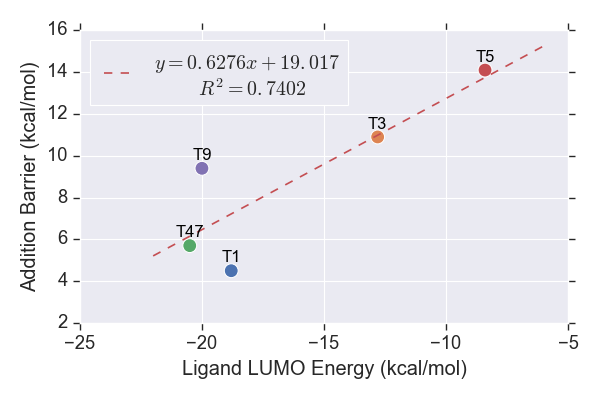
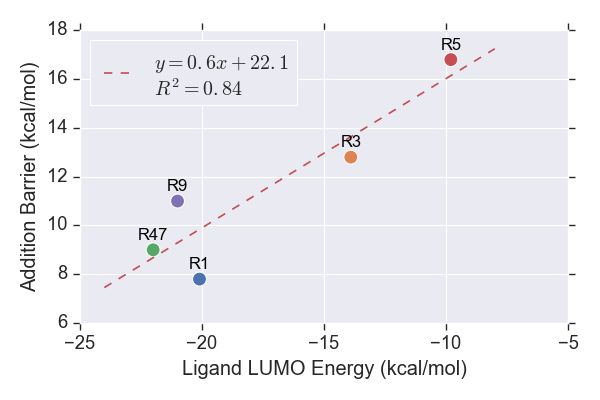
Updated to Combination I values, except charges

diff --git a/QM/visualG/plot_fig.py b/QM/visualG/plot_fig.py
@@ -23,12 +23,12 @@ SIX_PLOTS_WIDTH, SIX_PLOTS_HEIGHT = 10, 8
 def lin_reg(m, c, r2, xlimit, leg_loc, font_size="x-small"):
     x = np.linspace(xlimit[0], xlimit[1], 2)
     y = m * x + c
-    plt.plot(x, y, '--r', label="$y = {0}x + {1}$\n\t$R^2 = {2}$".format(m, c, r2))
+    plt.plot(x, y, '--r', label="$y = {0:.1f}x + {1:.1f}$\n$R^2 = {2:.2f}$".format(m, c, r2))
     plt.legend(loc=leg_loc, fontsize=font_size)
 
 
 if __name__ == "__main__":
-    csv_file = "{0}/QM/Conformational_Analysis/Most_stable/Properties_Correlation.csv".format(DATA_PATH)
+    csv_file = "{0}/QM/Conformational_Analysis/Most_stable_conformers/CombinationI_Properties_Correlation.csv".format(DATA_PATH)
     df = pd.read_csv(csv_file, index_col=0)
     print(df)
 
@@ -40,7 +40,7 @@ if __name__ == "__main__":
     for line in range(1, df.shape[0] + 1):
         ax.text(df["Ligand LUMO Energy (kcal/mol)"][line], df["Addition Barrier (kcal/mol)"][line] + 0.4,
                 df["Ligand"][line], horizontalalignment='center', size='small', color='black')
-    m, c, r2 = 0.6276, 19.017, 0.7402
+    m, c, r2 = 0.6121, 22.143, 0.8354
     lin_reg(m, c, r2, plt.xlim(), "upper left", font_size="medium")
     plt.ylim(None, None); plt.xlim(None, None)
     plt.tight_layout()
@@ -119,33 +119,33 @@ if __name__ == "__main__":
     ax1 = fig.add_subplot(2, 2, 1)
     p1 = sns.scatterplot(x="Thiolate Distortion Energy (kcal/mol)", y="Addition Barrier (kcal/mol)", data=df, hue="Ligand", legend=False, s=100)
     for line in range(1, df.shape[0] + 1):
-        ax1.text(df["Thiolate Distortion Energy (kcal/mol)"][line]-0.03, df["Addition Barrier (kcal/mol)"][line],
+        ax1.text(df["Thiolate Distortion Energy (kcal/mol)"][line]-0.02, df["Addition Barrier (kcal/mol)"][line],
                 df["Ligand"][line], horizontalalignment='right', size='small', color='black')
-    m, c, r2 = 18.279, 4.4489, 0.711
+    m, c, r2 = 17.241, 7.6018, 0.798
     lin_reg(m, c, r2, plt.xlim(), "upper left")
 
     ax2 = fig.add_subplot(2, 2, 2)
     p2 = sns.scatterplot(x="Ligand Distortion Energy (kcal/mol)", y="Addition Barrier (kcal/mol)", data=df, hue="Ligand", legend=False, s=100)
     for line in range(1, df.shape[0] + 1):
-        ax2.text(df["Ligand Distortion Energy (kcal/mol)"][line]+5, df["Addition Barrier (kcal/mol)"][line],
+        ax2.text(df["Ligand Distortion Energy (kcal/mol)"][line]-1.0, df["Addition Barrier (kcal/mol)"][line]+0.7,
                 df["Ligand"][line], horizontalalignment='left', size='small', color='black')
-    m, c, r2 = 0.0194, 8.4567, 0.0323
+    m, c, r2 = 0.8082, 5.3355, 0.9760
     lin_reg(m, c, r2, plt.xlim(), "best")
 
     ax3 = fig.add_subplot(2, 2, 3)
     p3 = sns.scatterplot(x="Activation Energy (kcal/mol)", y="Addition Barrier (kcal/mol)", data=df, hue="Ligand", legend=False, s=100)
     for line in range(1, df.shape[0] + 1):
-        ax3.text(df["Activation Energy (kcal/mol)"][line]-0.5, df["Addition Barrier (kcal/mol)"][line],
+        ax3.text(df["Activation Energy (kcal/mol)"][line]-0.3, df["Addition Barrier (kcal/mol)"][line],
                 df["Ligand"][line], horizontalalignment='right', size='small', color='black')
-    m, c, r2 = 0.9708, 5.5026, 0.9026
+    m, c, r2 = 0.9013, 10.439, 0.8943
     lin_reg(m, c, r2, plt.xlim(), "upper left")
 
     ax4 = fig.add_subplot(2, 2, 4)
     p4 = sns.scatterplot(x="Interaction Energy (kcal/mol)", y="Addition Barrier (kcal/mol)", data=df, hue="Ligand", legend=False, s=100)
     for line in range(1, df.shape[0] + 1):
-        ax4.text(df["Interaction Energy (kcal/mol)"][line]+5, df["Addition Barrier (kcal/mol)"][line],
+        ax4.text(df["Interaction Energy (kcal/mol)"][line]+0.18, df["Addition Barrier (kcal/mol)"][line],
                 df["Ligand"][line], horizontalalignment='left', size='small', color='black')
-    m, c, r2 = 0.0088, 8.7397, 0.0068
+    m, c, r2 = -1.6397, 0.1818, 0.428
     lin_reg(m, c, r2, plt.xlim(), "lower left")
 
     # plt.legend(p4, loc="center right", borderaxespad=0.1, title="Ligands")

diff --git a/QM/run_gaussian/gaussian.py b/QM/run_gaussian/gaussian.py
@@ -12,7 +12,7 @@ from os.path import isdir
 from QM.run_gaussian.settings import theory_lvl_list, keyword_dict, DATA_PATH
 
 NCPUS, SOFTWARE, VERSION, CLUSTER = int(8), 'g16', 'b01', 'Raijin'  # Unlikely to change
-WALLTIME, VMEM, JOBFS = '12:00:00', int(70000), int(100000)  # Common variables
+WALLTIME, VMEM, JOBFS = '12:00:00', int(8000), int(2400)  # Common variables
 MEM, CHARGE, SPIN = VMEM, int(0), int(1)
 METHOD, BASIS_SET, CALC_TYPE, FREQ, SCRF = 'M062X', '6-31+G(d)', ' opt', ' freq=noraman', ' scrf=(cpcm,solvent=water)'
 
@@ -23,6 +23,7 @@ def gen_from_dir(input_dir, run_calc_type, cluster=CLUSTER, combination=None, so
     for i, group in enumerate(groups):  # Potentially R, TSS, P
         group_dir = '{0}/{1}'.format(input_dir, group)  # Absolute path to the directories
         conformers = [g for g in os.listdir(group_dir) if isdir('{0}/{1}'.format(group_dir, g))]  # and 'TR' not in g
+        # print(conformers)
         for j, title in enumerate(conformers):
             conformer_dir = '{0}/{1}'.format(group_dir, title)
             edit_charge = True if run_calc_type == 'FBRGO' or run_calc_type == 'TSGOVF' or 'TS' in title or 'TI' in title or '-' in title else False
@@ -43,12 +44,15 @@ def gauss_inp_geom_opt(title, dirc, mem=MEM, ncpus=NCPUS, combination='{0}/{1}'.
             line_list = g.readlines()
             has_energy_name = 'Energy' in line_list[1] or 'TI' in line_list[1] or 'Name' in line_list[1]  # Potential bug-breeding spots
             has_path = ':' in line_list[1]
+            has_blank = '\n' in line_list[1]
             for i, line in enumerate(line_list):
                 if has_energy_name and i > 1:
                     f.write('{0}'.format(line))
                 elif has_path and i > 1:
                     f.write('\n{0}'.format(line)) if i == 2 else f.write('{0}'.format(line))
-                elif not(has_energy_name) and not(has_path) and i > 0:
+                elif has_blank and i > 1:
+                    f.write('{0}'.format(line))
+                elif not(has_energy_name) and not(has_path) and not(has_blank) and i > 0:
                     f.write('{0}'.format(line))
                 else:
                     pass
@@ -145,15 +149,16 @@ if __name__ == "__main__":
     else:
         input_dir = '{0}/QM_Calculations/Benchmarking'.format(DATA_PATH)
     job_list = ['geom_opt', 'spe', 'SCS']
-    job = job_list[1]
+    job = job_list[0]
     if job == 'geom_opt':
-        input_dir = '{0}/QM/Conformational_Search/Intermediates'.format(DATA_PATH)
+        input_dir = '{0}/Cross_Conjugation/Conformational_Search/mystery/Chloroform/Second_Products'.format(DATA_PATH)
         combination = '{0}/{1}'.format(METHOD, BASIS_SET)
-        gen_from_dir(input_dir, run_calc_type='GOVF', cluster='RCC', combination=combination, solvent='water')
+        print("Combination:", combination)
+        gen_from_dir(input_dir, run_calc_type='GOVF', cluster='RCC', combination=combination, solvent='chloroform')
     elif job == 'spe':
-        input_dir = '{0}/QM/Benchmarking/Extra_combinations'.format(DATA_PATH)
+        input_dir = '{0}/QM/Benchmarking'.format(DATA_PATH)
         for i, combination in enumerate(theory_lvl_list):
-            theory_dir = '{0}/Combination{1}/Water'.format(input_dir, i + 8)
+            theory_dir = '{0}/Combination{1}/Water'.format(input_dir, i + 1)
             # theory_dir = '{0}/alpha_santonin/Water'.format(input_dir)
             gen_from_dir(theory_dir, run_calc_type='SPEiS', cluster='RCC', combination=combination, solvent='water')
     elif job == 'SCS':

diff --git a/QM/run_gaussian/settings.py b/QM/run_gaussian/settings.py
@@ -9,7 +9,7 @@ Though recognition of my effort is appreciated! XD
 DATA_PATH = 'C:/Users/s4425412/Documents/Honours/Data'
 keyword_dict = {
     'SPEXGO': {'type': '', 'time': '48:00:00', 'vmem': int(10000), 'ncpus': int(16)},  # single-point energy calculation without geometry optimization
-    'GOVF': {'type': ' opt int(grid=ultrafine) scf=tight', 'freq': ' freq=noraman', 'mem': int(4000), 'jobfs': int(2400), 'time': '10:00:00'},  # geometry optimization with vibrational frequency calculation
+    'GOVF': {'type': ' opt int(grid=ultrafine) scf=tight', 'freq': ' freq=noraman', 'mem': int(8000), 'jobfs': int(2400), 'time': '10:00:00'},  # geometry optimization with vibrational frequency calculation
     'TSGOVF': {'type': ' opt=(ts,calcfc,noeigentest,maxcyc=200) int(grid=ultrafine) scf=tight', 'freq': ' freq=noraman', 'mem': int(4000), 'jobfs': int(4000), 'time': '10:00:00'},  # transition state GOVF
     'IRC': {'type': ' irc=(maxpoints=6,stepsize=10,calcfc,maxcyc=200)', 'time': '10:00:00'},  # intrinsic reaction coordinate calculation
     'SPEiS': {'type': ' int(grid=ultrafine) scf=tight', 'freq': '', 'time': '07:00:00', 'mem': int(70000), 'jobfs': int(100000)},  # single-point energy calculation in solvent
@@ -17,7 +17,7 @@ keyword_dict = {
     'FBRGO': {'type': ' opt=modredundant int(grid=ultrafine) scf=tight', 'freq': ' freq=noraman', 'edit_charge': int(-1), 'time': '18:00:00', 'mem': int(4000), 'jobfs': int(4000)},  # freeze a bond, optimize the rest
     'SBGO': {'type': ' opt=(z-matrix)'},  # stretch a bond, optimize for each point
     }
-# theory_lvl_list = ['B2PLYPD/6-311G(2d,p)', 'M062X/6-311G(2d,p)', 'MP2/6-311G(2d,p)',
-#                   'wB97XD/6-311G(2d,p)', 'wB97XD/AUG-cc-pVTZ', 'wB97XD/6-311G(d,p)', 'wB97XD/6-311+G(d,p)']
-theory_lvl_list = ['B2PLYPD/6-31+G(d)', 'M062X/6-311+G(d,p)', 'M062X/6-311G(d,p)', 'wB97XD/6-311+G(d,p)']
+theory_lvl_list = ['B2PLYPD/6-311G(2d,p)', 'M062X/6-311G(2d,p)', 'MP2/6-311G(2d,p)', 'wB97XD/6-311G(2d,p)',
+                   'wB97XD/AUG-cc-pVTZ', 'wB97XD/6-311G(d,p)', 'wB97XD/6-311+G(d,p)', 'B2PLYPD/6-31+G(d)',
+                   'M062X/6-311+G(d,p)', 'M062X/6-311G(d,p)']
 # Correction needed for SCS-MP2 afterwards, function in gaussian.py

diff --git a/QM/run_gaussian/tabulate.py b/QM/run_gaussian/tabulate.py
@@ -57,8 +57,8 @@ def find_val(line_list, target_str):
 
 
 if __name__ == "__main__":
-    class_type = 'Intermediates'
-    input_dir = '{0}/QM/Conformational_Search/{1}'.format(DATA_PATH, class_type)
+    class_type = 'Second_Products'
+    input_dir = '{0}/Cross_Conjugation/Conformational_Search/mystery/Chloroform/{1}'.format(DATA_PATH, class_type)
     groups = [f for f in os.listdir(input_dir) if isdir('{0}/{1}'.format(input_dir, f)) and 'exclude' not in f]  # and 'Reactant' not in f
     print("\n# Tabulating values of interest from Gaussian .out files to an Excel sheet...")
     print("\n# Input directory:\n", input_dir, "\n\n# Groups:\n", groups, "\n")

diff --git a/QM/run_gaussian/admin.py b/QM/run_gaussian/admin.py
@@ -74,7 +74,7 @@ def split_file(file_path, break_str, ext):
 
 if __name__ == "__main__":
     operation_list = ['split', 'rename', 'group']
-    input_dir = '{0}/QM/Conformational_Search/Intermediates'.format(DATA_PATH)
+    input_dir = '{0}/Cross_Conjugation/Conformational_Search/mystery/Chloroform/Second_Products'.format(DATA_PATH)
     dircs = [f for f in os.listdir(input_dir) if isdir('{0}/{1}'.format(input_dir, f))]  # and 'Reactant' not in f
     operation_index = 2
     for i, dirc in enumerate(dircs):

diff --git a/QM/calculation.py b/QM/calculation.py
@@ -56,8 +56,8 @@ def exp_time(k, t_half, RT):
 
 
 if __name__ == "__main__":
-    T = 298.15  # Temperature, assumes RT at the moment [K]
-    k, dGbarr = None, 15.3  # off rate [s^-1], elimination barrier [kcal/mol]
+    T = 310.15  # Temperature, assumes RT at the moment [K]
+    k, dGbarr = 3.347E-06, None  # off rate [s^-1], elimination barrier [kcal/mol]
     t_half, RT = None, None  # half_life [s], residence time [s]
     k, dGbarr = eyring(k, dGbarr, T)
     k, t_half, RT = exp_time(k, t_half, RT)
